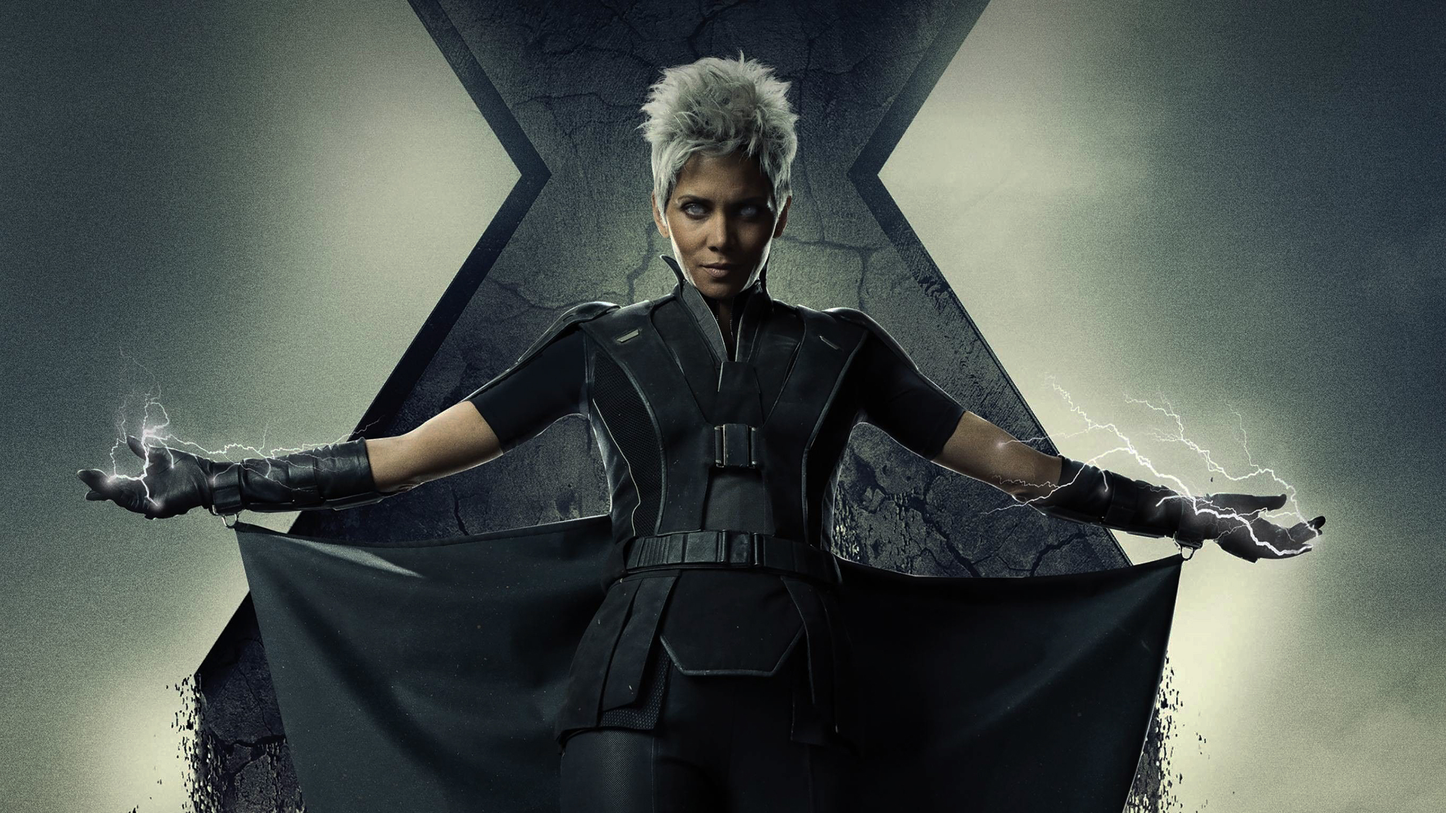
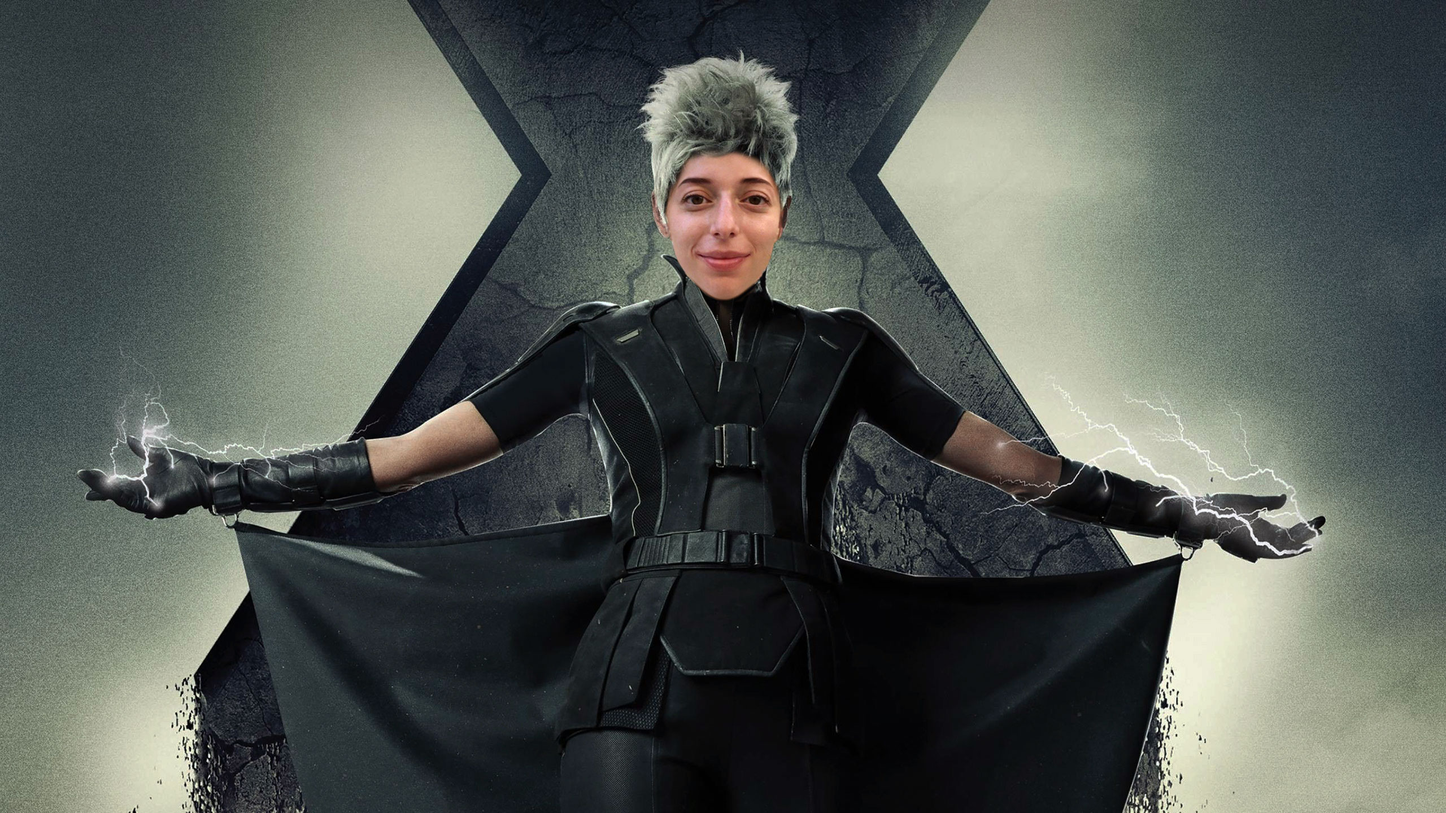
created personal page for Web Storm

Changed region(s): [[0.4375, 0.1875, 0.5625, 0.375]]

diff --git a/webpack.dev.js b/webpack.dev.js
@@ -36,6 +36,7 @@ module.exports = merge(common, {
         { from: /\/maven/, to: "/maven.html" },
         { from: /\/coffeeman/, to: "/coffeeman.html" },
         { from: /\/blackWindow/, to: "/blackWindow.html" },
+        { from: /\/webstorm/, to: "/webstorm.html" },
         { from: /^\/$/, to: "/landing.html" },
         { from: /./, to: "/not-found.html" },
       ],

diff --git a/app.js b/app.js
@@ -30,6 +30,11 @@ app.get("/maven", (req, res) => {
   res.sendFile(path.join(__dirname, "dist/maven.ejs"));
 });
 
+
+app.get("/webstorm", (req, res) => {
+  res.sendFile(path.join(__dirname, "dist/webstorm.ejs"));
+});
+
 app.use("*", (req, res) => {
   res.status(404).sendFile(path.join(__dirname, "dist/not-found.html"));
 });

diff --git a/src/static/pages/landing/landing.scss b/src/static/pages/landing/landing.scss
@@ -261,7 +261,7 @@
   &__text-container {
     padding: 0 3% 1%;
     background-color: #000000cc;
-    @include flex(center, space-between, column);
+    @include flex(center, center, column);
     z-index: 1;
   }
 

diff --git a/src/static/main.scss b/src/static/main.scss
@@ -16,3 +16,4 @@
 @import "./pages/heroes/heroes";
 @import "./pages/maven/maven";
 @import "./pages/blackWindow/blackWindow";
+@import "./pages/webstorm/webstorm";
